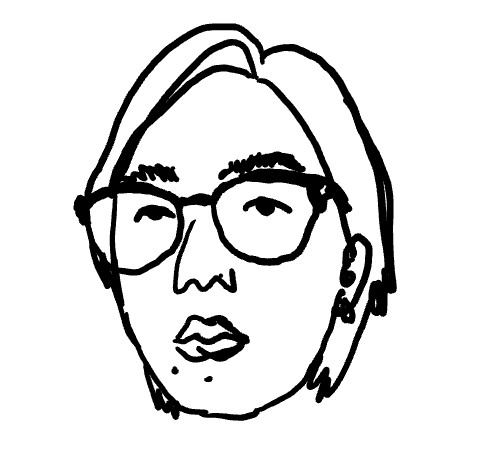
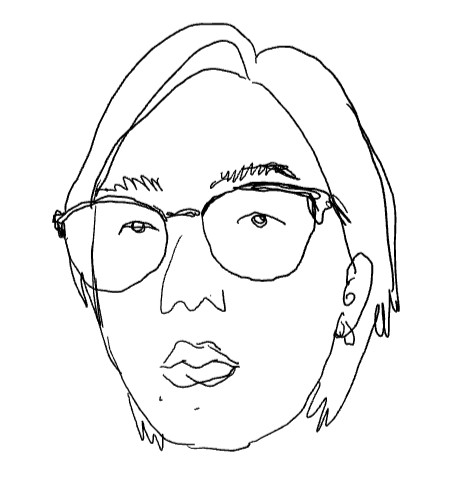
change profile image

Changed region(s): [[0.0903, 0.0308, 0.8731, 0.9538]]

diff --git a/src/app/home/home.component.html b/src/app/home/home.component.html
@@ -1,5 +1,5 @@
 <!--<header><h4 id="initials">LK</h4></header>-->
-<div class="center-content"><img src="assets/images/profile1.jpg"></div>
+<div class="center-content"><img src="assets/images/profile3.jpg"></div>
 <div class="intro">
   <h1>
     Lana Kashino

diff --git a/src/app/home/home.component.scss b/src/app/home/home.component.scss
@@ -8,9 +8,9 @@
 }
 
 img {
-  width: 150px;
-  opacity: 70%;
-  padding-bottom: 5em;
+  width: 175px;
+  opacity: 100%;
+  padding-bottom: 7em;
   padding-top: 10em;
 }
 
